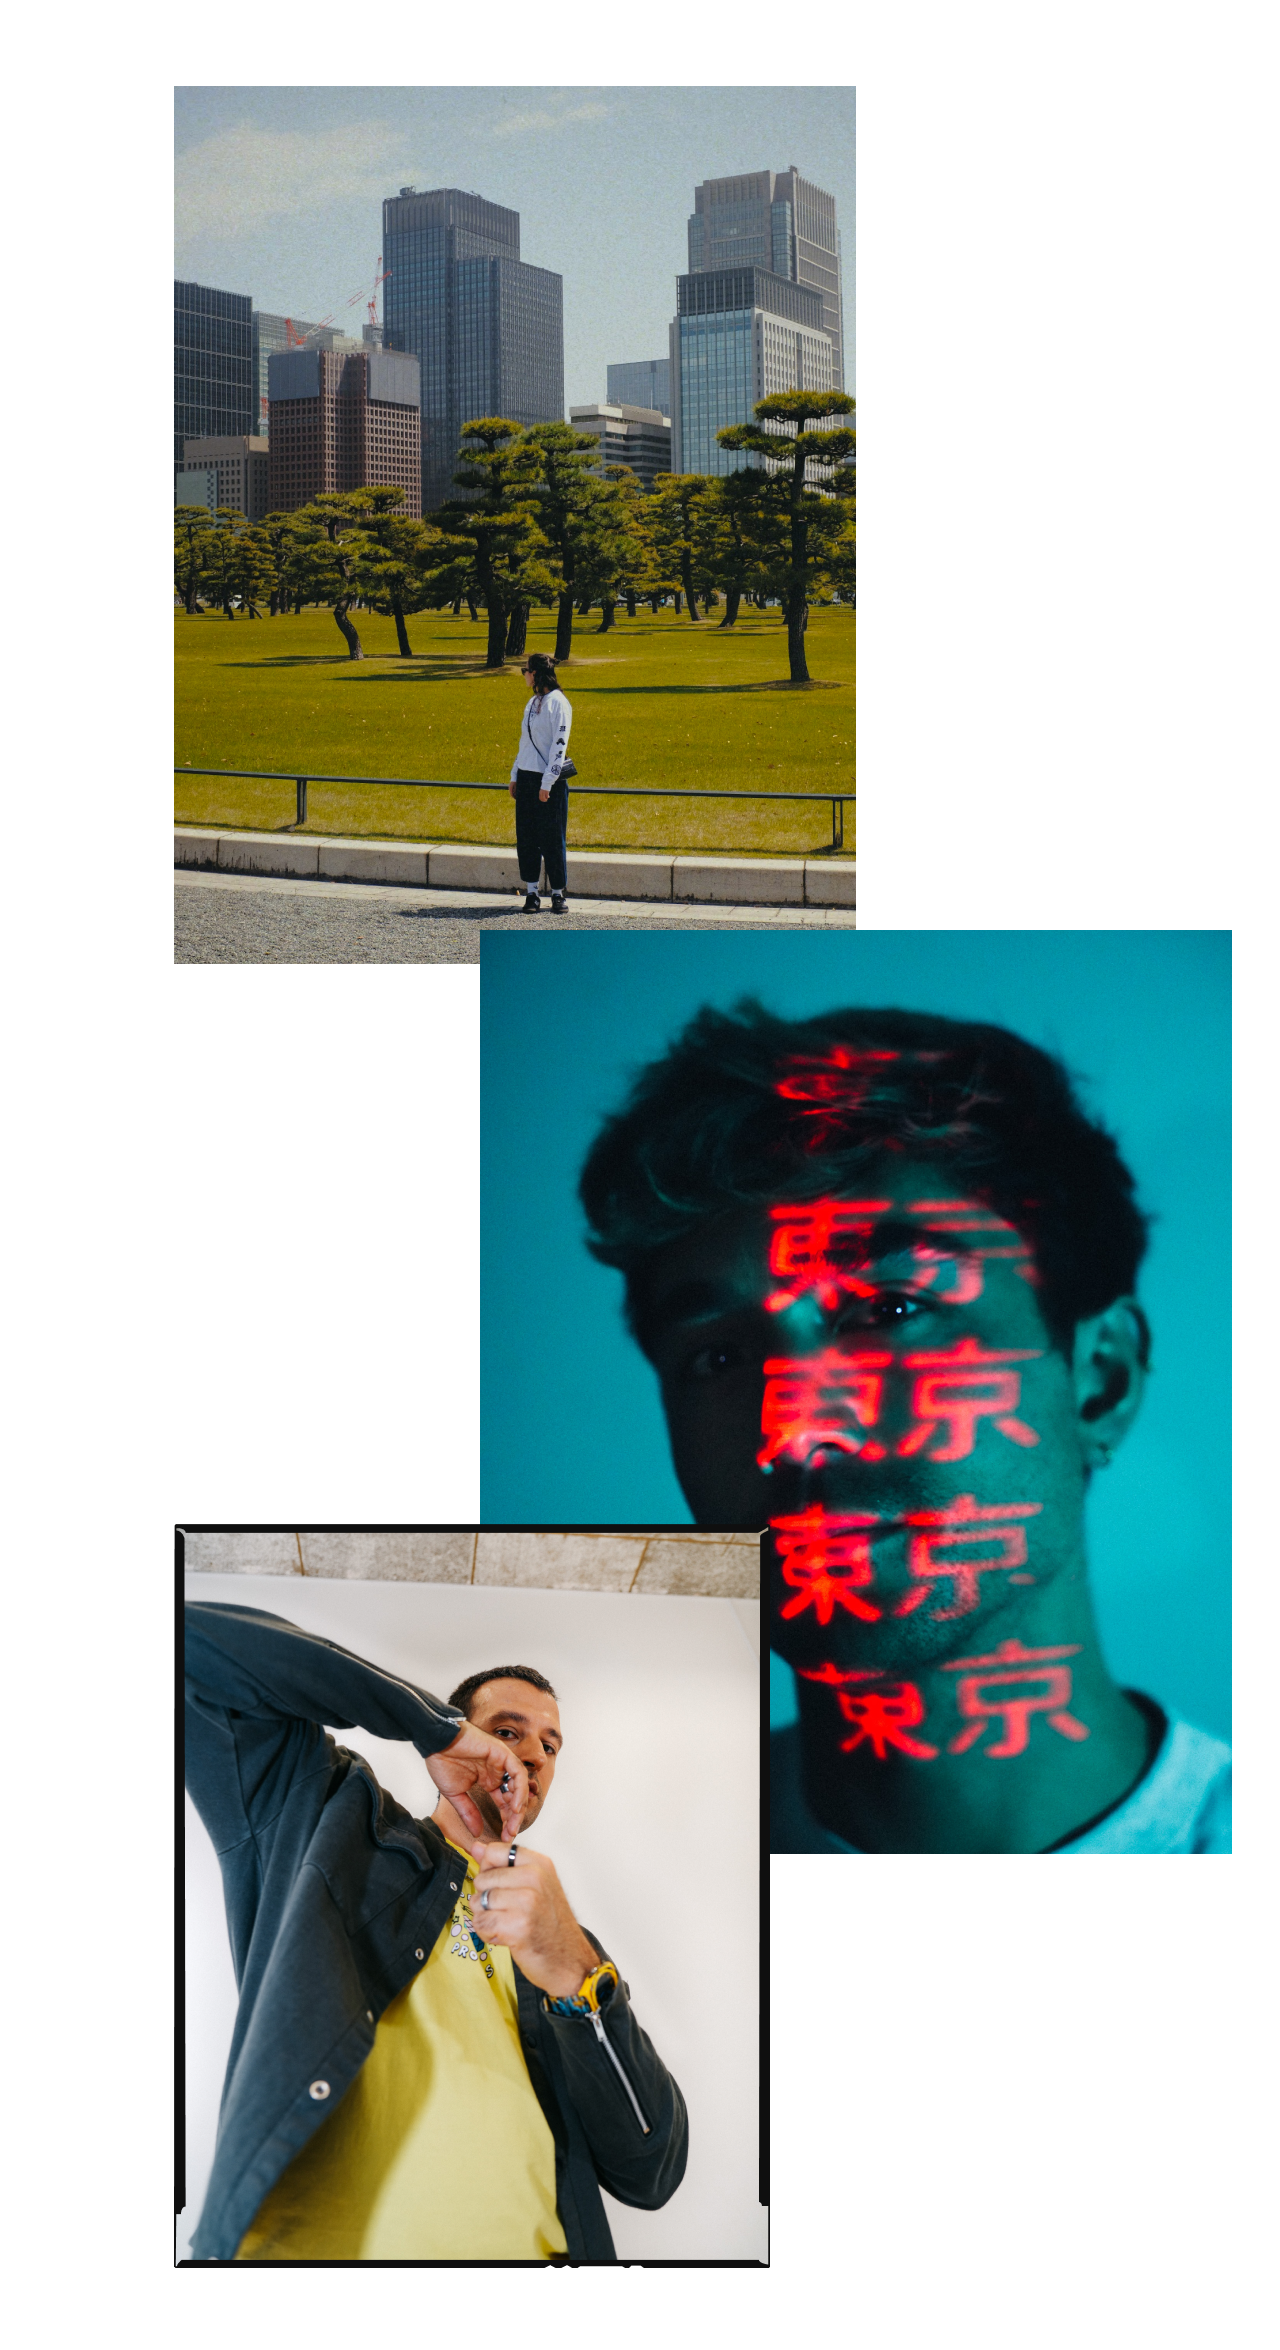
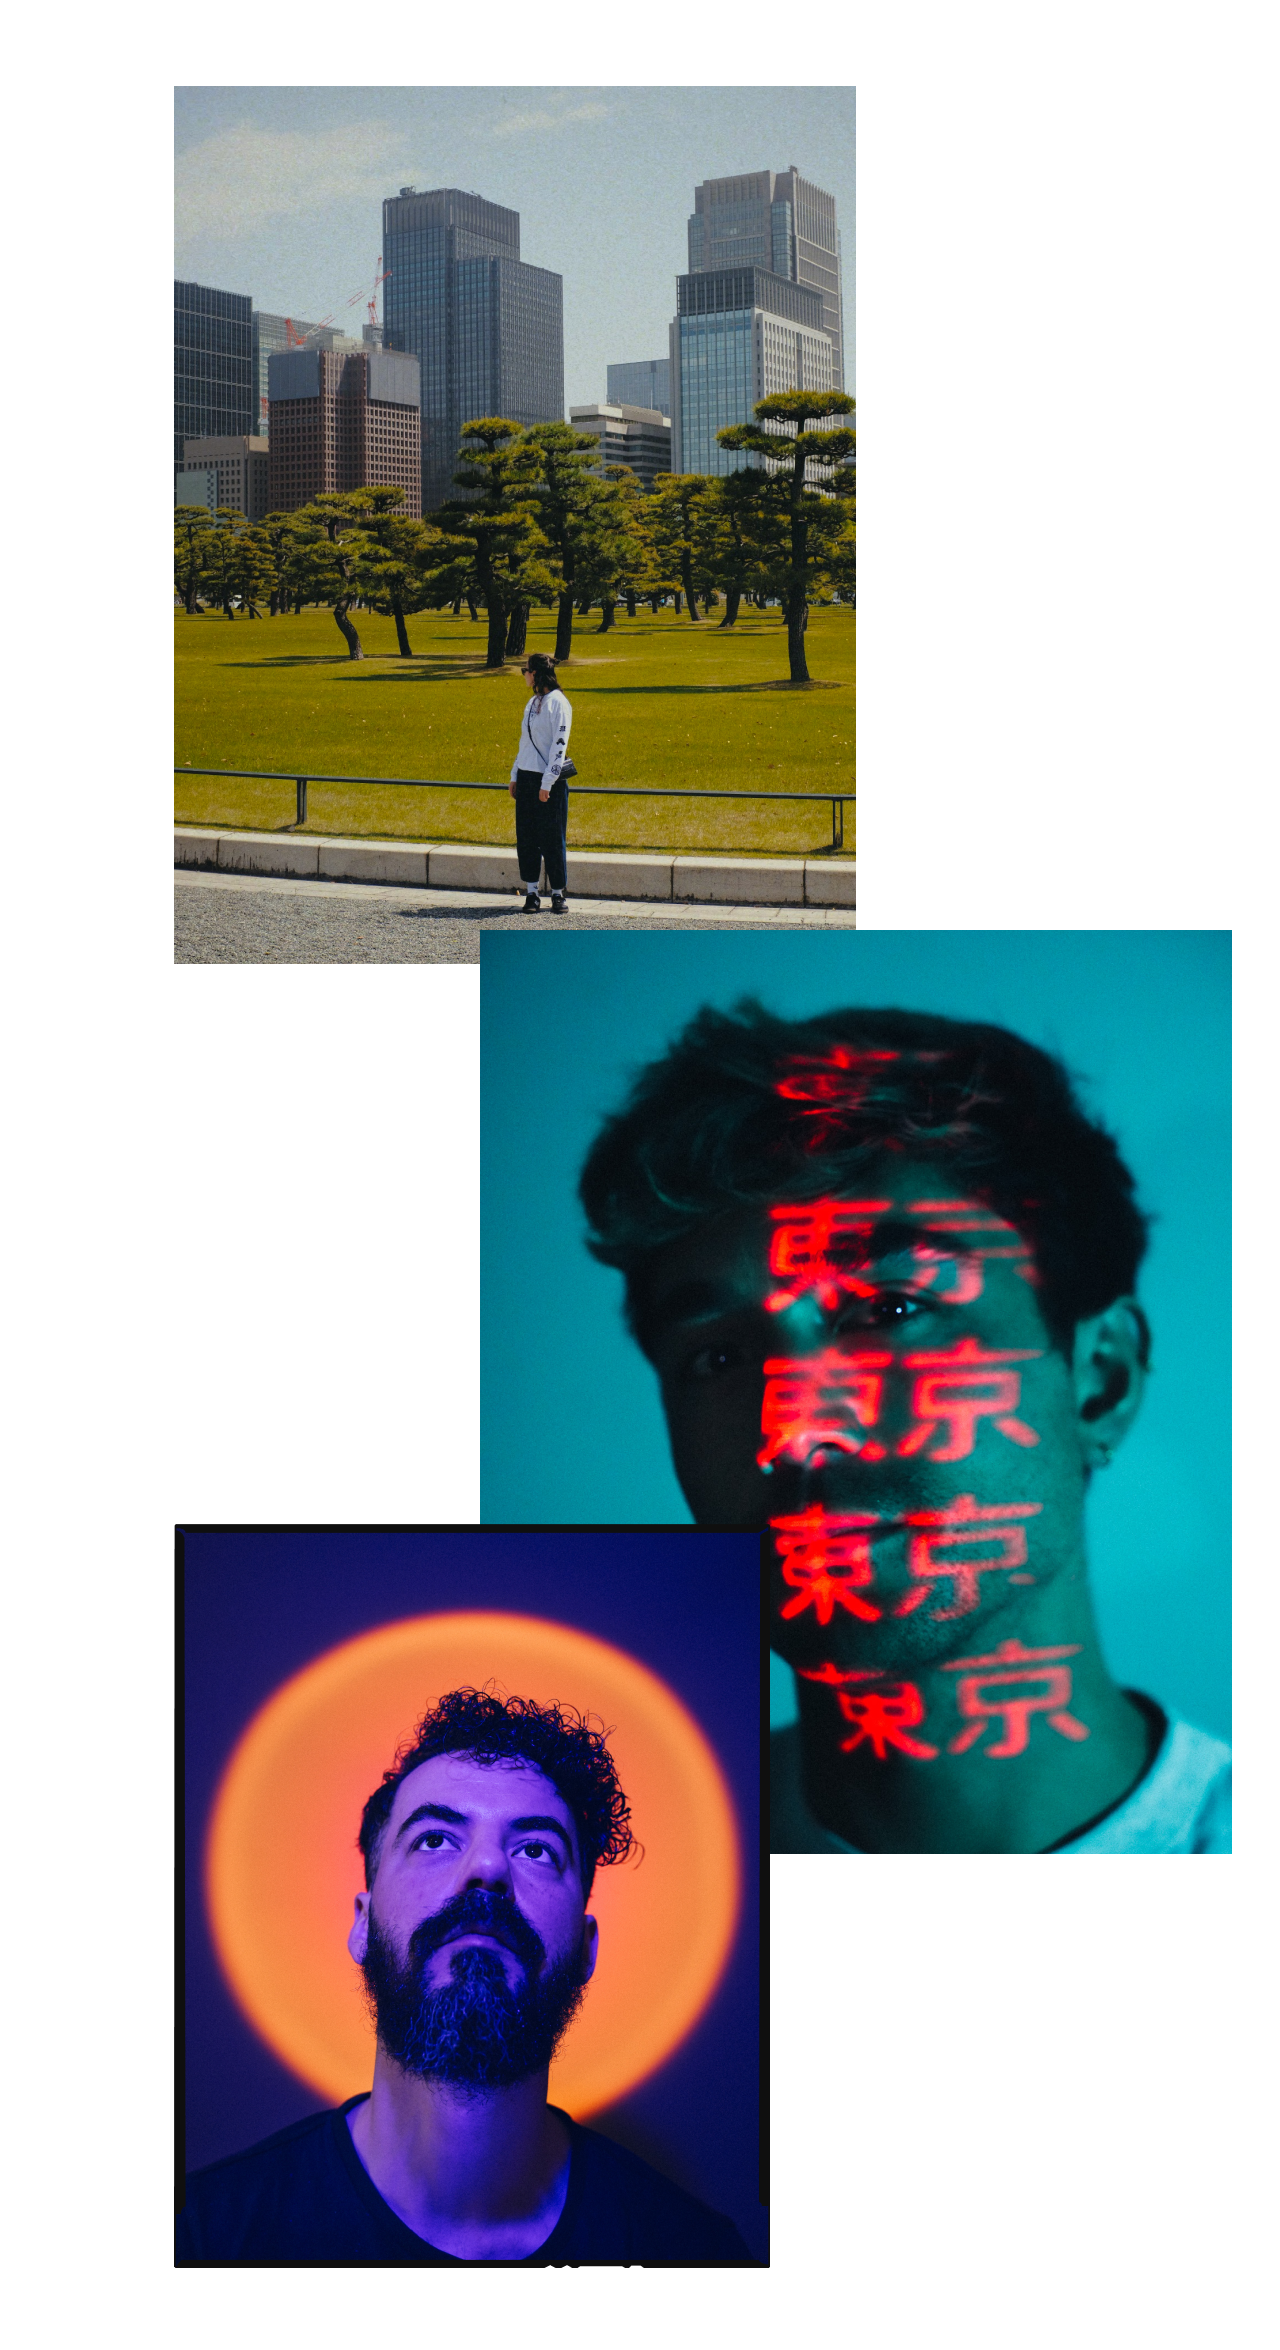
add

Changed region(s): [[0.125, 0.6523, 0.625, 0.963]]

diff --git a/.next/server/middleware-build-manifest.js b/.next/server/middleware-build-manifest.js
@@ -1,1 +1,1 @@
-self.__BUILD_MANIFEST={"polyfillFiles":["static/chunks/polyfills.js"],"devFiles":["static/chunks/react-refresh.js"],"ampDevFiles":[],"lowPriorityFiles":["static/development/_buildManifest.js","static/development/_ssgManifest.js"],"rootMainFiles":[],"pages":{"/":["static/chunks/webpack.js","static/chunks/main.js","static/chunks/pages/index.js"],"/_app":["static/chunks/webpack.js","static/chunks/main.js","static/chunks/pages/_app.js"],"/_error":["static/chunks/webpack.js","static/chunks/main.js","static/chunks/pages/_error.js"],"/garments":["static/chunks/webpack.js","static/chunks/main.js","static/chunks/pages/garments.js"]},"ampFirstPages":[]}
+self.__BUILD_MANIFEST={"polyfillFiles":["static/chunks/polyfills.js"],"devFiles":["static/chunks/react-refresh.js"],"ampDevFiles":[],"lowPriorityFiles":["static/development/_buildManifest.js","static/development/_ssgManifest.js"],"rootMainFiles":[],"pages":{"/":["static/chunks/webpack.js","static/chunks/main.js","static/chunks/pages/index.js"],"/_app":["static/chunks/webpack.js","static/chunks/main.js","static/chunks/pages/_app.js"],"/_error":["static/chunks/webpack.js","static/chunks/main.js","static/chunks/pages/_error.js"],"/people":["static/chunks/webpack.js","static/chunks/main.js","static/chunks/pages/people.js"]},"ampFirstPages":[]}

diff --git a/pages/people.js b/pages/people.js
@@ -24,11 +24,11 @@ export default function People() {
             <Item src="/life/life-54.png" width={320} height={240} />
             <Item src="/life/life-33.png" width={320} height={240} />
             <Item src="/life/life-45.png" width={320} height={240} />
-            <Item src="/life/life-60.png" width={320} height={240} />
+            <Item src="/life/life-60.jpg" width={320} height={240} />
             <Item src="/life/life-55.png" width={320} height={240} />
-            <Item src="/life/life-1.png" width={320} height={240} />
+            <Item src="/life/life-1.jpg" width={320} height={240} />
             <Item src="/life/life-58.png" width={320} height={240} />
-            <Item src="/life/life-37.png" width={320} height={240} />
+            <Item src="/life/life-37.jpg" width={320} height={240} />
 
             <Item src="/life/life-62.jpg" width={320} height={240} />
 

diff --git a/.next/server/next-font-manifest.js b/.next/server/next-font-manifest.js
@@ -1,1 +1,1 @@
-self.__NEXT_FONT_MANIFEST="{\"pages\":{\"/_app\":[\"static/media/0ce685bf1f50a7cb-s.p.woff2\",\"static/media/ec487c9c32b30f6d-s.p.woff2\"],\"/\":[\"static/media/0ce685bf1f50a7cb-s.p.woff2\",\"static/media/ec487c9c32b30f6d-s.p.woff2\"],\"/garments\":[\"static/media/0ce685bf1f50a7cb-s.p.woff2\",\"static/media/ec487c9c32b30f6d-s.p.woff2\"]},\"app\":{},\"appUsingSizeAdjust\":false,\"pagesUsingSizeAdjust\":true}"
+self.__NEXT_FONT_MANIFEST="{\"pages\":{\"/_app\":[\"static/media/0ce685bf1f50a7cb-s.p.woff2\",\"static/media/ec487c9c32b30f6d-s.p.woff2\"],\"/\":[\"static/media/0ce685bf1f50a7cb-s.p.woff2\",\"static/media/ec487c9c32b30f6d-s.p.woff2\"],\"/people\":[\"static/media/0ce685bf1f50a7cb-s.p.woff2\",\"static/media/ec487c9c32b30f6d-s.p.woff2\"]},\"app\":{},\"appUsingSizeAdjust\":false,\"pagesUsingSizeAdjust\":true}"
